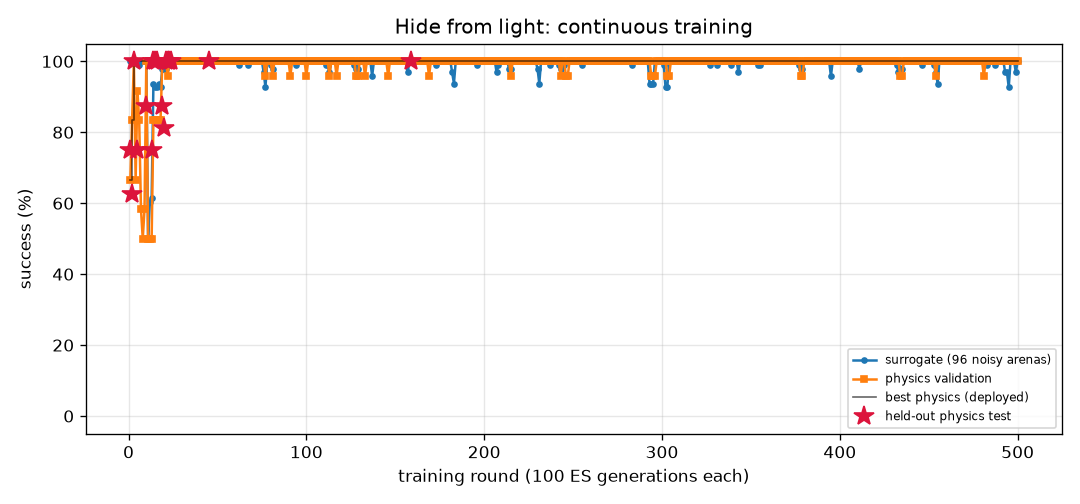
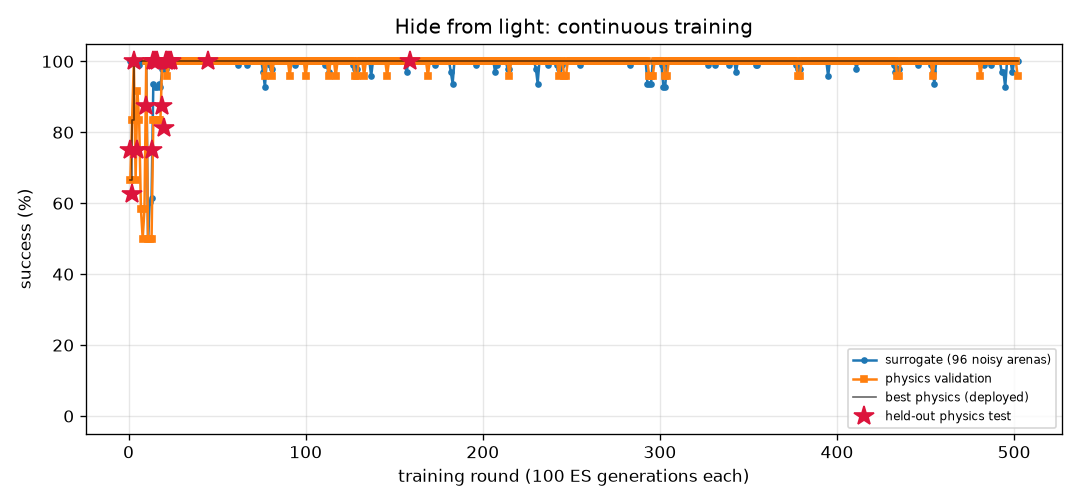
FlyLab: continuous training progress
- walk_forward: optimal, physics val 100% of 24, round 282
- turn: optimal, physics val 100% of 24, round 841
- goto: optimal, physics val 100% of 24, round 232
- odor_seek: optimal, physics val 100% of 24, round 192
- odor_avoid: optimal, physics val 100% of 24, round 765
- light_seek: optimal, physics val 100% of 24, round 426
- light_avoid: optimal, physics val 100% of 24, round 502

diff --git a/projects/09_flylab/training/odor_avoid/REPORT.md b/projects/09_flylab/training/odor_avoid/REPORT.md
@@ -1,14 +1,14 @@
 # Escape a bad smell (`odor_avoid`) — training report
 
-*Auto-generated by `train_brains.py`, last updated 2026-11-03T23:19:59.*
+*Auto-generated by `train_brains.py`, last updated 2026-11-03T23:38:50.*
 
 ![curve](curve.png)
 
 | | |
 |---|---|
-| rounds | 763 |
-| ES generations | 76300 |
-| physics runs | 15618 |
+| rounds | 765 |
+| ES generations | 76500 |
+| physics runs | 15666 |
 | status | **optimal** |
 | best brain | round 373: physics validation **100%** on 24 arenas, surrogate 97% |
 | held-out physics test | **97%** on 32 unseen arenas (95% CI 84%-99%) (errors: [62.0, 57.4, 62.6, 61.9, 59.0, 61.6, 56.5, 60.7, 31.7, 60.9, 63.1, 57.1, 61.1, 62.1, 61.5, 60.2, 62.2, 55.2, 62.1, 54.2, 61.3, 62.0, 58.0, 61.9, 59.8, 56.5, 56.3, 56.4, 56.3, 57.7, 61.9, 32.4]) |
@@ -17,8 +17,6 @@ Physics error per arena: mm gained away from source (> 6 without first approachi
 
 | round | level | gens | sigma | surrogate | physics val | val errors | test | note |
 |---:|---:|---:|---:|---:|---:|---|---:|---|
-| 724 | 3 | 72400 | 0.026 | 98% | 92% | [58.9, 57.0, 54.7, 58.3, 59.5, 57.0, 59.1, 55.8, 59.3, 41.5, 5.1, 60.1, 48.5, 53.7, 23.2, 36.4, 59.9, 54.6, 48.5, 54.7, 60.1, 53.7, 58.3, 57.3] |  |  |
-| 725 | 3 | 72500 | 0.025 | 98% | 96% | [56.5, 51.7, 52.5, 53.5, 54.2, 47.2, 53.2, 38.3, 53.9, 49.7, 50.3, 56.1, 45.2, 50.2, 39.0, 53.7, 56.2, 46.2, 48.5, 50.0, 55.8, 55.0, 53.2, 53.2] |  | restart from best |
 | 726 | 3 | 72600 | 0.026 | 95% | 96% | [63.4, 55.3, 57.2, 56.5, 61.2, 61.2, 60.5, 30.4, 60.2, 59.0, 59.5, 61.1, 52.7, 57.3, 43.5, 61.6, 61.6, 62.0, 55.2, 57.9, 61.2, 47.7, 58.3, 62.0] |  |  |
 | 727 | 3 | 72700 | 0.027 | 97% | 96% | [63.3, 61.6, 57.7, 61.7, 61.8, 62.4, 62.2, 63.1, 60.7, 62.2, 58.7, 60.8, 47.3, 55.6, 33.8, 62.2, 61.1, 61.6, 53.2, 58.3, 61.1, 62.7, 61.7, 63.6] |  |  |
 | 728 | 3 | 72800 | 0.026 | 95% | 96% | [63.3, 60.4, 58.2, 59.1, 60.6, 56.5, 61.5, 21.8, 60.4, 48.8, 60.4, 60.1, 51.4, 54.7, 36.6, 60.1, 60.7, 58.8, 53.5, 55.8, 60.3, 45.6, 59.1, 41.6] |  |  |
@@ -57,3 +55,5 @@ Physics error per arena: mm gained away from source (> 6 without first approachi
 | 761 | 3 | 76100 | 0.025 | 96% | 100% | [62.8, 59.3, 56.5, 61.4, 60.9, 61.9, 61.0, 54.2, 61.1, 49.7, 55.7, 61.9, 50.0, 56.4, 19.6, 52.7, 62.0, 61.1, 54.7, 57.2, 61.9, 42.3, 59.5, 49.5] |  | restart from best |
 | 762 | 3 | 76200 | 0.026 | 96% | 100% | [60.3, 60.0, 56.4, 60.4, 61.9, 62.0, 61.1, 50.4, 61.1, 61.4, 61.0, 61.3, 54.4, 55.9, 50.6, 60.9, 61.3, 60.2, 54.2, 59.3, 61.4, 61.6, 58.9, 49.1] |  |  |
 | 763 | 3 | 76300 | 0.026 | 97% | 96% | [58.2, 51.8, 54.0, 53.1, 58.6, 55.6, 58.3, 21.5, 57.8, 28.6, 19.7, 59.0, 47.3, 54.0, 38.5, 57.6, 59.1, 41.3, 49.5, 50.8, 59.2, 50.1, 54.7, 38.8] |  |  |
+| 764 | 3 | 76400 | 0.026 | 96% | 100% | [60.7, 58.3, 56.5, 59.1, 60.9, 59.8, 60.6, 38.2, 61.2, 31.7, 61.0, 61.3, 53.9, 57.7, 51.3, 61.4, 60.9, 60.2, 54.6, 56.1, 61.2, 61.6, 58.6, 39.0] |  |  |
+| 765 | 3 | 76500 | 0.026 | 96% | 96% | [59.0, 55.5, 54.4, 55.4, 58.6, 56.5, 59.1, 56.7, 59.4, 56.7, 40.1, 59.4, 46.7, 53.7, 32.1, 56.2, 59.6, 57.0, 48.2, 51.8, 59.8, 56.9, 55.2, 57.6] |  | restart from best |

diff --git a/projects/09_flylab/training/light_avoid/REPORT.md b/projects/09_flylab/training/light_avoid/REPORT.md
@@ -1,14 +1,14 @@
 # Hide from light (`light_avoid`) — training report
 
-*Auto-generated by `train_brains.py`, last updated 2026-11-03T23:19:57.*
+*Auto-generated by `train_brains.py`, last updated 2026-11-03T23:38:41.*
 
 ![curve](curve.png)
 
 | | |
 |---|---|
-| rounds | 500 |
-| ES generations | 50000 |
-| physics runs | 12272 |
+| rounds | 502 |
+| ES generations | 50200 |
+| physics runs | 12320 |
 | status | **optimal** |
 | best brain | round 159: physics validation **100%** on 24 arenas, surrogate 100% |
 | held-out physics test | **100%** on 32 unseen arenas (95% CI 89%-100%) (errors: [14.4, 56.1, 58.0, 57.9, 57.5, 14.0, 14.4, 56.6, 56.8, 13.3, 14.1, 56.6, 57.6, 13.1, 57.3, 55.9, 57.2, 55.0, 55.2, 53.9, 55.2, 12.4, 53.8, 53.7, 14.1, 13.7, 55.0, 57.8, 56.2, 13.1, 52.8, 56.5]) |
@@ -17,8 +17,6 @@ Physics error per arena: mm gained away from source (> 6 without first approachi
 
 | round | level | gens | sigma | surrogate | physics val | val errors | test | note |
 |---:|---:|---:|---:|---:|---:|---|---:|---|
-| 461 | 3 | 46100 | 0.024 | 100% | 100% | [40.7, 38.7, 38.2, 38.1, 41.1, 38.2, 36.4, 14.5, 40.7, 13.4, 42.5, 41.2, 14.4, 40.9, 38.2, 40.1, 14.2, 40.8, 38.4, 14.4, 40.6, 42.2, 36.7, 41.0] |  |  |
-| 462 | 3 | 46200 | 0.024 | 100% | 100% | [38.8, 38.2, 37.6, 37.9, 40.0, 38.6, 35.7, 14.5, 32.6, 13.4, 40.1, 38.8, 14.4, 39.0, 37.9, 39.3, 14.2, 39.7, 38.9, 14.4, 37.4, 39.8, 35.2, 38.9] |  |  |
 | 463 | 3 | 46300 | 0.024 | 100% | 100% | [37.8, 36.2, 38.6, 37.9, 39.6, 36.9, 33.0, 14.5, 39.8, 13.4, 42.0, 41.9, 14.4, 42.2, 39.3, 39.0, 14.2, 41.1, 39.6, 14.4, 37.8, 41.4, 34.6, 40.8] |  | restart from best |
 | 464 | 3 | 46400 | 0.024 | 100% | 100% | [50.2, 54.4, 53.8, 51.2, 55.5, 51.5, 52.3, 14.5, 50.0, 13.4, 54.1, 55.5, 14.4, 53.7, 54.2, 51.2, 14.2, 55.8, 54.3, 14.4, 52.3, 54.4, 52.5, 55.1] |  |  |
 | 465 | 3 | 46500 | 0.024 | 100% | 100% | [49.3, 53.3, 52.9, 50.7, 54.6, 50.5, 51.4, 14.5, 52.5, 48.3, 54.1, 54.4, 14.4, 52.7, 53.1, 49.9, 14.2, 54.7, 53.2, 14.4, 52.8, 54.1, 51.7, 53.9] |  |  |
@@ -57,3 +55,5 @@ Physics error per arena: mm gained away from source (> 6 without first approachi
 | 498 | 3 | 49800 | 0.024 | 100% | 100% | [55.6, 60.7, 60.2, 56.9, 60.2, 57.0, 58.9, 14.5, 23.3, 13.5, 57.4, 60.0, 14.4, 57.9, 60.6, 58.6, 14.2, 60.7, 60.9, 14.4, 57.5, 59.2, 58.8, 59.4] |  |  |
 | 499 | 3 | 49900 | 0.024 | 97% | 100% | [43.5, 44.5, 44.1, 43.7, 46.1, 43.5, 42.8, 14.5, 44.2, 13.1, 46.4, 46.4, 14.4, 47.4, 45.4, 35.7, 14.2, 48.0, 43.0, 14.4, 8.7, 46.2, 40.8, 47.1] |  | restart from best |
 | 500 | 3 | 50000 | 0.024 | 100% | 100% | [38.0, 37.4, 36.9, 39.8, 39.7, 37.9, 35.1, 14.5, 38.0, 13.3, 39.8, 39.5, 14.4, 39.6, 37.2, 38.5, 14.2, 39.7, 37.9, 14.4, 38.2, 40.5, 33.6, 39.6] |  |  |
+| 501 | 3 | 50100 | 0.024 | 100% | 100% | [44.7, 45.1, 44.7, 45.6, 48.5, 44.5, 41.9, 14.5, 46.7, 13.3, 48.4, 48.2, 14.4, 47.4, 45.3, 45.8, 14.2, 48.3, 45.5, 14.4, 44.4, 48.9, 42.7, 48.0] |  |  |
+| 502 | 3 | 50200 | 0.024 | 100% | 96% | [40.1, 40.9, 40.3, 42.6, 44.9, 39.9, 38.4, 14.5, 34.9, 13.3, 43.7, 44.1, 14.4, 44.4, 41.2, 41.2, 14.2, 44.1, 41.7, 14.4, 41.0, 42.6, 39.8, 45.4] |  |  |

diff --git a/projects/09_flylab/training/turn/REPORT.md b/projects/09_flylab/training/turn/REPORT.md
@@ -1,14 +1,14 @@
 # Turn in place (`turn`) — training report
 
-*Auto-generated by `train_brains.py`, last updated 2026-11-03T22:50:35.*
+*Auto-generated by `train_brains.py`, last updated 2026-11-04T09:26:24.*
 
 ![curve](curve.png)
 
 | | |
 |---|---|
-| rounds | 840 |
-| ES generations | 84000 |
-| physics runs | 20406 |
+| rounds | 841 |
+| ES generations | 84100 |
+| physics runs | 20430 |
 | status | **optimal** |
 | best brain | round 80: physics validation **100%** on 24 arenas, surrogate 100% |
 | held-out physics test | **97%** on 32 unseen arenas (95% CI 84%-99%) (errors: [1.6, 3.3, 6.3, 3.7, 1.1, 0.4, 2.4, 2.9, 0.1, 2.6, 0.5, 2.7, 1.5, 3.1, 4.5, 0.2, 0.5, 1.1, 2.0, 4.4, 2.8, 3.2, 0.3, 2.2, 0.5, 3.0, 0.3, 5.4, 0.4, 1.0, 4.7, 10.7]) |
@@ -17,7 +17,6 @@ Physics error per arena: deg from target heading (< 20 = success).
 
 | round | level | gens | sigma | surrogate | physics val | val errors | test | note |
 |---:|---:|---:|---:|---:|---:|---|---:|---|
-| 801 | 3 | 80100 | 0.024 | 99% | 88% | [0.8, 0.7, 5.0, 1.7, 3.6, 7.4, 5.5, 5.1, 6.0, 4.1, 5.0, 1.8, 2.5, 0.7, 3.8, 3.3, 1.6, 2.8, 3.1, 10.9, 3.7, 1.0, 5.8, 8.0] |  |  |
 | 802 | 3 | 80200 | 0.025 | 98% | 67% | [8.0, 7.6, 8.5, 1.4, 1.4, 2.7, 8.1, 4.6, 9.5, 2.5, 4.9, 4.3, 2.8, 1.0, 6.1, 3.3, 5.3, 5.9, 3.3, 3.7, 2.5, 4.1, 9.7, 8.9] |  |  |
 | 803 | 3 | 80300 | 0.025 | 99% | 92% | [1.5, 2.7, 1.8, 0.0, 14.2, 1.6, 7.4, 6.9, 7.9, 2.2, 5.5, 3.2, 1.4, 0.9, 5.1, 13.4, 3.6, 3.6, 2.7, 5.8, 4.2, 3.0, 7.2, 3.0] |  |  |
 | 804 | 3 | 80400 | 0.025 | 99% | 100% | [2.0, 1.5, 12.9, 0.9, 13.2, 2.3, 6.9, 9.2, 7.1, 3.1, 4.7, 3.5, 1.4, 2.5, 3.5, 13.1, 3.3, 2.6, 4.7, 4.7, 3.2, 2.7, 6.6, 8.1] |  | restart from best |
@@ -57,3 +56,4 @@ Physics error per arena: deg from target heading (< 20 = success).
 | 838 | 3 | 83800 | 0.025 | 99% | 92% | [3.4, 4.4, 0.2, 1.0, 0.1, 1.4, 4.9, 5.9, 4.7, 0.6, 4.4, 0.5, 3.1, 3.4, 3.2, 0.3, 0.1, 1.8, 2.7, 0.2, 6.4, 0.1, 5.3, 0.0] |  |  |
 | 839 | 3 | 83900 | 0.025 | 100% | 75% | [2.5, 3.4, 4.4, 0.1, 14.4, 4.4, 7.9, 6.9, 7.2, 1.8, 6.6, 2.4, 0.7, 2.0, 4.7, 2.7, 2.2, 3.5, 2.5, 2.9, 2.8, 4.3, 6.4, 8.6] |  |  |
 | 840 | 3 | 84000 | 0.024 | 99% | 96% | [9.1, 5.1, 1.4, 2.9, 4.9, 15.8, 4.7, 1.8, 3.6, 0.5, 4.7, 1.3, 1.6, 3.0, 0.4, 0.2, 1.1, 0.4, 0.3, 0.4, 5.5, 1.5, 4.6, 4.9] |  | restart from best |
+| 841 | 3 | 84100 | 0.024 | 97% | 96% | [9.5, 11.4, 4.7, 7.2, 3.1, 1.1, 0.6, 3.9, 0.3, 3.6, 0.4, 3.8, 4.4, 5.0, 0.1, 4.5, 4.1, 3.4, 4.3, 4.9, 8.0, 2.6, 0.1, 9.6] |  |  |

diff --git a/projects/09_flylab/training/TRAINING.md b/projects/09_flylab/training/TRAINING.md
@@ -1,15 +1,15 @@
 # FlyLab brains — continuous training log
 
-*Auto-generated by `train_brains.py`, last updated 2026-11-03T23:19:59.*
+*Auto-generated by `train_brains.py`, last updated 2026-11-04T09:26:24.*
 
 Every skill has its own brain and its own training process: surrogate ES rounds, physics validation in MuJoCo, keep-the-best selection, and a held-out physics test that is never used for selection. See each skill's report for its full round-by-round history. Mastery is progressive: passing a level (100% physics validation, >=95% surrogate) doubles the validation and test arena sets; a brain is **optimal** once it holds up at level 3 (>=95% of 24 validation arenas) AND scores >=90% on the 32 held-out test arenas. Test columns show 95% Wilson confidence intervals.
 
 | skill | rounds | ES generations | physics runs | surrogate | physics val | **physics test** | status |
 |---|---:|---:|---:|---:|---:|---:|---|
 | [Walk forward](walk_forward/REPORT.md) | 282 | 28200 | 6782 | 100% | 100% of 24 | 100% of 32 (CI 89-100%) | **optimal** |
-| [Turn in place](turn/REPORT.md) | 840 | 84000 | 20406 | 100% | 100% of 24 | 97% of 32 (CI 84-99%) | **optimal** |
+| [Turn in place](turn/REPORT.md) | 841 | 84100 | 20430 | 100% | 100% of 24 | 97% of 32 (CI 84-99%) | **optimal** |
 | [Go to a location](goto/REPORT.md) | 232 | 23200 | 5518 | 100% | 100% of 24 | 100% of 32 (CI 89-100%) | **optimal** |
 | [Find food by smell](odor_seek/REPORT.md) | 192 | 19200 | 4038 | 100% | 100% of 24 | 100% of 32 (CI 89-100%) | **optimal** |
-| [Escape a bad smell](odor_avoid/REPORT.md) | 763 | 76300 | 15618 | 97% | 100% of 24 | 97% of 32 (CI 84-99%) | **optimal** |
+| [Escape a bad smell](odor_avoid/REPORT.md) | 765 | 76500 | 15666 | 97% | 100% of 24 | 97% of 32 (CI 84-99%) | **optimal** |
 | [Walk toward light](light_seek/REPORT.md) | 426 | 42600 | 7104 | 100% | 100% of 24 | 100% of 32 (CI 89-100%) | **optimal** |
-| [Hide from light](light_avoid/REPORT.md) | 500 | 50000 | 12272 | 100% | 100% of 24 | 100% of 32 (CI 89-100%) | **optimal** |
+| [Hide from light](light_avoid/REPORT.md) | 502 | 50200 | 12320 | 100% | 100% of 24 | 100% of 32 (CI 89-100%) | **optimal** |
